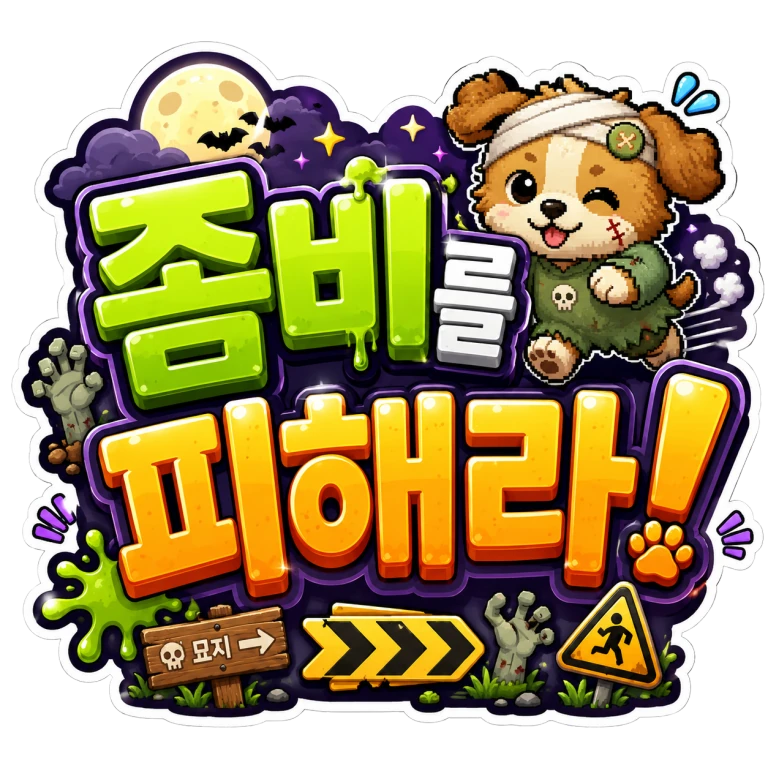
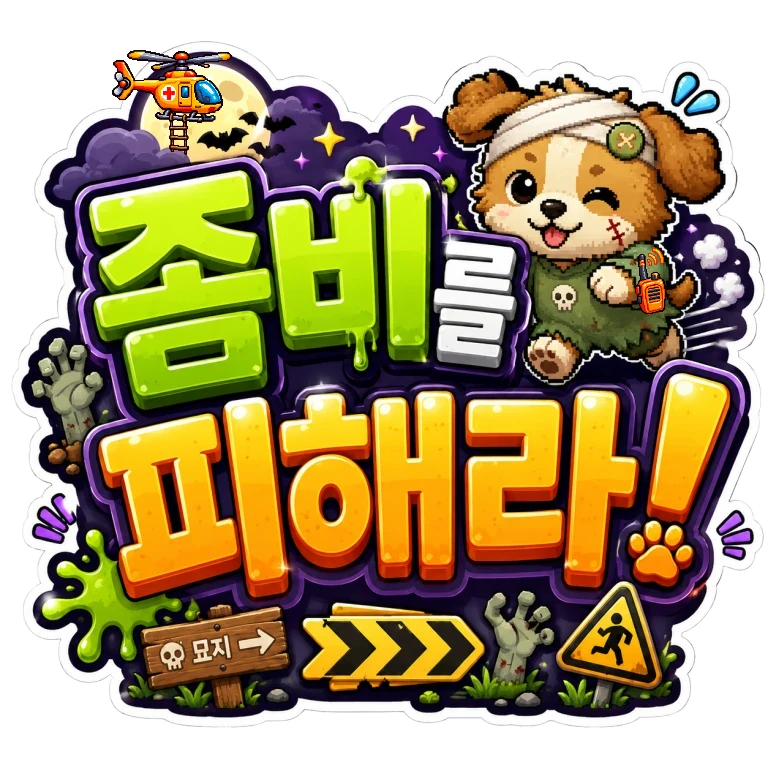
Give 좀비를 피해라 its own pictures for hiding, shields and the win screens, and add the rescue helicopter and radio to its title card.
The 숨는 중 mark now uses a pixel bush icon instead of the generic eye-off icon, the 🛡 emoji in the target list and player list is the existing shield picture, and the vaccine count shows the syringe icon. The student result card shows a helicopter rescue for a human win and cheering zombies around the broken radio for a zombie win, in place of the trophy and the plain zombie icon. The title card keeps its lettering and layout and adds a helicopter by the moon and a radio in the puppy's paw. All images were made with Codex image generation in the style of the existing zombie icons.

Changed region(s): [[0.125, 0.0625, 0.3125, 0.2188], [0.8125, 0.3125, 0.875, 0.4062]]

diff --git a/components/ZombieView.tsx b/components/ZombieView.tsx
@@ -2,7 +2,7 @@
 
 import { useCallback, useEffect, useMemo, useRef, useState, type ReactNode } from 'react'
 import { AnimatePresence, motion } from 'framer-motion'
-import { EyeOff, Heart } from 'lucide-react'
+import { Heart } from 'lucide-react'
 import QuizView from '@/components/QuizView'
 import AnswerReveal from '@/components/AnswerReveal'
 import { useRevealedAnswer } from '@/hooks/useRevealedAnswer'
@@ -671,8 +671,8 @@ export default function ZombieView({
                             <div className="min-w-0 text-left">
                               <div className="truncate">{player.name}</div>
                               <div className="flex items-center gap-2 text-xs text-red-300">
-                                {hideLeft > 0 && <span className="inline-flex items-center gap-1 text-gray-300"><EyeOff className="h-3 w-3" />숨는 중 {hideLeft}초</span>}
-                                {player.shield > 0 && <span className="text-cyan-300">🛡 방어막</span>}
+                                {hideLeft > 0 && <span className="inline-flex items-center gap-1 text-gray-300"><ZombieIcon name="hide" size={16} alt="" />숨는 중 {hideLeft}초</span>}
+                                {player.shield > 0 && <span className="inline-flex items-center gap-1 text-cyan-300"><ZombieIcon name="shield" size={16} alt="" />방어막</span>}
                                 {showHumanStatusToZombies && <span>HP {player.health}</span>}
                               </div>
                             </div>
@@ -734,15 +734,22 @@ export default function ZombieView({
             const hiding = isHiding(player, nowMs)
             // 정체를 모르는 상대는 상태도 숨긴다. 인간만 숫자가 뜨면 그 자체로 좀비가 드러난다.
             // 좀비 화면이라도 체력 숫자는 선생님 옵션이 켜졌을 때만.
+            const showHp = isMe || (isZombie && showHumanStatusToZombies)
             const status = !revealRole
               ? '???'
               : player.role === 'zombie'
-                ? player.originalRole === 'zombie' ? '처음 좀비' : `감염${player.vaccine > 0 ? ` · 💉${player.vaccine}` : ''}`
-                : [
-                  isMe || (isZombie && showHumanStatusToZombies) ? `HP ${player.health}` : null,
-                  player.shield > 0 ? '🛡' : null,
-                  hiding ? '숨는 중' : null,
-                ].filter(Boolean).join(' ') || '인간'
+                ? player.originalRole === 'zombie'
+                  ? '처음 좀비'
+                  : <>감염{player.vaccine > 0 && <><ZombieIcon name="vaccine" size={14} className="ml-1" alt="맞은 백신" />{player.vaccine}</>}</>
+                : !showHp && player.shield === 0 && !hiding
+                  ? '인간'
+                  : (
+                    <>
+                      {showHp && `HP ${player.health}`}
+                      {player.shield > 0 && <ZombieIcon name="shield" size={16} alt="방어막" />}
+                      {hiding && <><ZombieIcon name="hide" size={16} alt="" />숨는 중</>}
+                    </>
+                  )
             return (
               <Card key={player.id} className={`border ${isMe ? borderColor : 'border-gray-700'} bg-gray-800/30`}>
                 <CardContent className="p-2">
@@ -751,7 +758,7 @@ export default function ZombieView({
                       <div className="truncate text-sm font-bold text-white">{player.name}{isMe ? ' (나)' : ''}</div>
                       <div className="text-xs text-gray-400">{revealRole ? (player.role === 'zombie' ? '좀비' : '인간') : '정체불명'}</div>
                     </div>
-                    <div className="text-right text-xs text-gray-400">{status}</div>
+                    <div className="flex items-center justify-end gap-1 text-right text-xs text-gray-400">{status}</div>
                   </div>
                 </CardContent>
               </Card>
@@ -887,7 +894,7 @@ function RadioStrip({ radio, isZombie, nowMs, hideLeft }: { radio: ZombieRadioSt
         )}
         {hideLeft > 0 && (
           <span className="ml-auto inline-flex shrink-0 items-center gap-1 rounded-full bg-slate-700 px-2 py-0.5 text-slate-100">
-            <EyeOff className="h-3 w-3" />숨는 중 {hideLeft}초
+            <ZombieIcon name="hide" size={14} alt="" />숨는 중 {hideLeft}초
           </span>
         )}
       </div>

diff --git a/app/zombie/page.tsx b/app/zombie/page.tsx
@@ -8,7 +8,6 @@ import PreStartQuizGate from '@/components/PreStartQuizGate'
 import { Card, CardContent, CardHeader, CardTitle } from '@/components/ui/card'
 import AnimatedBackground from '@/components/AnimatedBackground'
 import { Button } from '@/components/ui/button'
-import { Trophy } from 'lucide-react'
 import ZombieIcon from '@/components/zombie/ZombieIcon'
 import {
   computeZombieRadio,
@@ -381,11 +380,8 @@ export default function ZombiePage() {
             <Card className={`w-full max-w-3xl border-4 ${winner === 'human' ? 'border-blue-500' : 'border-green-500'} bg-black/90 shadow-2xl`}>
               <CardHeader className="pb-4 text-center">
                 <div className="mb-4 flex justify-center">
-                  {winner === 'human' ? (
-                    <Trophy className="mx-auto h-20 w-20 text-blue-300" />
-                  ) : (
-                    <ZombieIcon name="zombie" size={80} alt="좀비 승리" />
-                  )}
+                  {/* 폰에서는 한 단계 작게 — 결과 카드 아래 목록이 화면 안에 들어오도록 */}
+                  <ZombieIcon name={winner === 'human' ? 'winHuman' : 'winZombie'} size={176} className="h-32 w-32 sm:h-44 sm:w-44" alt={winner === 'human' ? '인간 승리' : '좀비 승리'} />
                 </div>
                 <CardTitle className={`mb-2 text-5xl font-bold ${winner === 'human' ? 'text-blue-400' : 'text-green-400'}`}>
                   {winner === 'human' ? '인간 팀 승리!' : '좀비 팀 승리!'}

diff --git a/lib/game/zombieAssets.ts b/lib/game/zombieAssets.ts
@@ -18,6 +18,9 @@ export const ZOMBIE_ICON = {
   repair: '/zombie/repair.webp',
   vaccine: '/zombie/vaccine.webp',
   sabotage: '/zombie/sabotage.webp',
+  hide: '/zombie/hide.webp',
+  winHuman: '/zombie/win-human.webp',
+  winZombie: '/zombie/win-zombie.webp',
 } as const
 
 export type ZombieIconName = keyof typeof ZOMBIE_ICON
